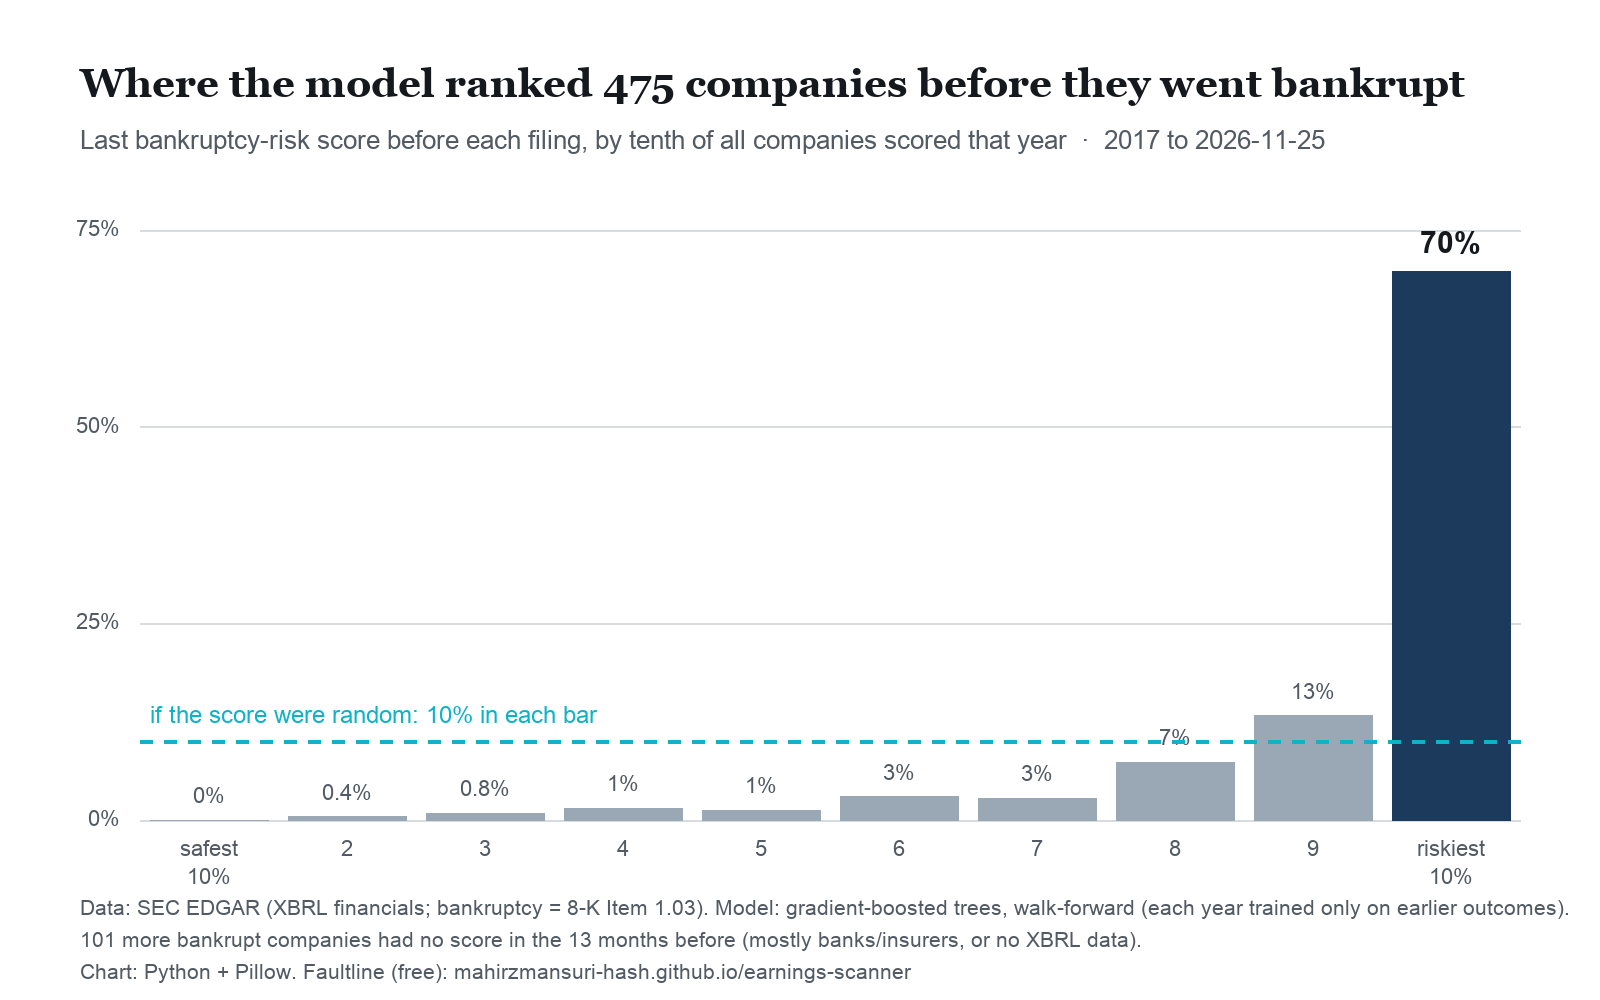
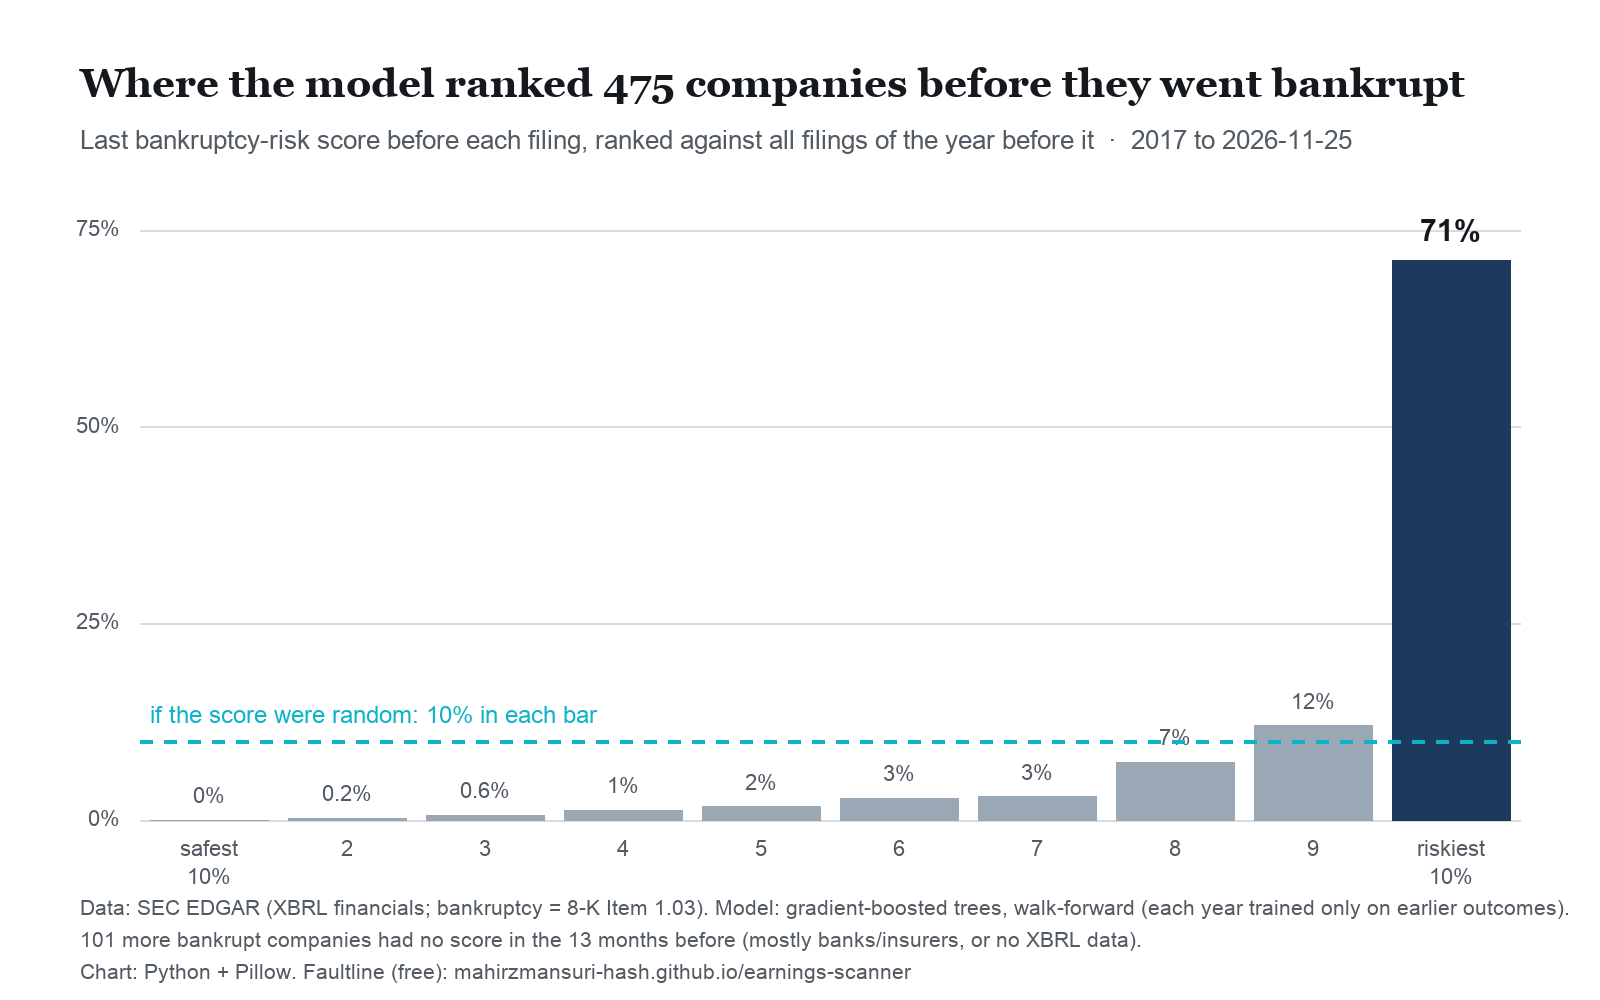
Point-in-time percentiles (trailing 365 days), updated chart and launch kit

diff --git a/src/web/build.py b/src/web/build.py
@@ -44,7 +44,7 @@ def num(x, d=2):
 
 
 def band(p):
-    """Percentile among companies filing that year -> (word, css color)."""
+    """Percentile among filings of the past 365 days -> (word, css color)."""
     if p is None or (isinstance(p, float) and math.isnan(p)):
         return ("Not scored", "--ink-2")
     if p >= 0.95:
@@ -55,7 +55,7 @@ def band(p):
 
 
 def pct_text(p):
-    return "n/a" if p is None or (isinstance(p, float) and math.isnan(p)) else f"riskier than {p*100:.0f}% of filers that year"
+    return "n/a" if p is None or (isinstance(p, float) and math.isnan(p)) else f"riskier than {p*100:.0f}% of filers in the past year"
 
 
 def reading(p):
@@ -158,7 +158,7 @@ def chart(h: pd.DataFrame, evs: pd.DataFrame) -> str:
                      f'<text x="{X(t)+4:.1f}" y="{ly}" style="fill:var({c})">{word}</text>')
     return (f'<div class="tbl"><svg viewBox="0 0 {W} {H}" width="100%" style="min-width:420px" role="img" '
             f'aria-label="Bankruptcy risk percentile by filing date">{"".join(s)}</svg></div>'
-            '<p class="note">Percentile of bankruptcy risk among all companies that filed a 10-K the same year. '
+            '<p class="note">Percentile of bankruptcy risk among all 10-Ks filed in the 365 days up to that filing (never later ones). '
             'Shaded bands: top 5% (high) and top 20% (elevated). Each point is scored by a model that had only seen '
             'outcomes known before that year.</p>')
 
@@ -177,7 +177,7 @@ def q_stat(r) -> str:
     return (f'<div class="stat"><span class="label">Updated with the 10-Q filed {pd.Timestamp(q.available_date).date()}</span>'
             f'<span class="v">{q.q_risk*100:.1f}%</span><span class="read" style="--c:var({c})">{w}</span> '
             f'<span class="dim">· bankruptcy risk, next 2 years · quarter ended {pd.Timestamp(q.period_end).date()} · '
-            f'riskier than {q.q_pctile*100:.0f}% of 10-Q filers that year</span></div>')
+            f'riskier than {q.q_pctile*100:.0f}% of 10-Qs filed in the past year</span></div>')
 AAER = {}
 
 
@@ -490,7 +490,7 @@ def new_filings(latest, as_of):
     jumps = recent.dropna(subset=["jump"]).sort_values("jump", ascending=False).head(15)
     allrows = recent.sort_values(["available_date", "bankruptcy_pctile"], ascending=[False, False])
     body = f"""<section><h1>New filings</h1><p class="dim">Every annual report filed in the 30 days before {as_of}, scored the day the data
-was updated. Risk percentile compares each company with all companies that filed in the same year; change is in percentile points
+was updated. Risk percentile compares each company with all 10-Ks filed in the 365 days up to it; change is in percentile points
 against the company's previous 10-K.</p></section>
 <section><h2>Biggest increases in risk</h2>{'<div class="tbl"><table>' + head + '<tbody>' + "".join(row(r) for r in jumps.itertuples()) + '</tbody></table></div>' if len(jumps) else '<p class="dim">No company with an earlier report filed in this window.</p>'}</section>
 <section><h2>All {len(allrows):,} filings</h2><div class="tbl"><table>{head}<tbody>{"".join(row(r) for r in allrows.itertuples())}</tbody></table></div>
@@ -659,7 +659,7 @@ bankruptcy-risk score before the filing. Misses included. Data as of {pd.Timesta
 using filings public at the time. The site itself launched in November 2026, so older scores are what the method would have
 shown then, not screenshots. Bankruptcy filings come from SEC's 8-K item tags; we read each one and left out
 {len(not_bankruptcy)} tagged filing(s) whose text was not about a bankruptcy. Companies with no score are mostly banks and insurers (not scored) or filers without XBRL financials.
-"Riskiest 10%" is among all filers scored that year. Research, not investment advice.
+"Riskiest 10%" compares each score with all scores filed in the 365 days up to it, never later ones. Research, not investment advice.
 See the <a href="track-record.html">full track record</a> for every year since 2016.</p></section>"""
     (SITE / "receipts.html").write_text(page("Receipts: what Faultline said before each bankruptcy", body,
         f"{top10} of {m} companies that filed for bankruptcy in the last 12 months were already in Faultline's riskiest 10%.", active="receipts.html",

diff --git a/src/model/live.py b/src/model/live.py
@@ -14,6 +14,8 @@ percentages get closer to how often companies really failed. 2016 (no earlier ye
 """
 import duckdb
 import pandas as pd
+
+from src.model.pctile import trailing_pctile
 from sklearn.isotonic import IsotonicRegression
 
 from src.config import DB_PATH
@@ -59,11 +61,11 @@ def main():
             part = part.rename(columns={"calibrated": col, "composite": col + "_raw"})
             out = part if out is None else out.merge(part.drop(columns=["available_date"]), on=["cik", "period_end"], how="outer")
             print(f"  {event}: scored {len(part):,} company-years")
-        out["year"] = pd.to_datetime(out["available_date"]).dt.year
         for col in ["bankruptcy_risk", "restatement_risk"]:
-            # rank by the raw score: calibration groups scores into steps, raw keeps the fine order
-            out[col.replace("_risk", "_pctile")] = out.groupby("year")[col + "_raw"].rank(pct=True)
-        con.register("risk_df", out.drop(columns=["year"]))
+            # rank by the raw score (calibration groups scores into steps, raw keeps the fine order), only against
+            # filings public in the 365 days up to this one: no peeking at filings made later (src/model/pctile.py)
+            out[col.replace("_risk", "_pctile")] = trailing_pctile(out["available_date"], out[col + "_raw"])
+        con.register("risk_df", out)
         con.execute("CREATE OR REPLACE TABLE risk AS SELECT * FROM risk_df")
         con.unregister("risk_df")
         print(f"risk table: {len(out):,} company-years (filed 2016-{as_of.year}), data as of {as_of.date()}")

diff --git a/src/model/pctile.py b/src/model/pctile.py
@@ -1,0 +1,28 @@
+"""Point-in-time percentiles: rank each score only against scores public in the 365 days up to its own filing date.
+
+The old method ranked a filing against every filing in its calendar year, including ones filed later that year
+(a small look-ahead). Here the comparison set is: same kind of score, filed in (date - 365 days, date].
+Ties count half (same convention as pandas rank(pct=True), average method).
+"""
+import numpy as np
+import pandas as pd
+
+
+def trailing_pctile(dates, scores, days: int = 365) -> np.ndarray:
+    d = pd.to_datetime(pd.Series(dates)).dt.normalize().to_numpy()
+    s = np.asarray(scores, dtype=float)
+    out = np.full(len(s), np.nan)
+    ok = ~np.isnan(s) & ~np.isnat(d)           # no date (e.g. restatement-only rows): no percentile, as before
+    idx = np.where(ok)[0]
+    order = idx[np.argsort(d[idx], kind="stable")]
+    dd, ss = d[order], s[order]
+    win = np.timedelta64(days, "D")
+    for day in np.unique(dd):
+        lo, hi = np.searchsorted(dd, day - win, "right"), np.searchsorted(dd, day, "right")
+        ref = np.sort(ss[lo:hi])
+        today = slice(np.searchsorted(dd, day, "left"), hi)
+        x = ss[today]
+        below = np.searchsorted(ref, x, "left")
+        equal = np.searchsorted(ref, x, "right") - below
+        out[order[today]] = (below + (equal + 1) / 2) / len(ref)    # average rank / n, like rank(pct=True)
+    return out

diff --git a/src/model/quarterly_test.py b/src/model/quarterly_test.py
@@ -103,14 +103,15 @@ def lead_times(rows: pd.DataFrame) -> dict:
 
 def live():
     """Site scores: every 10-Q since 2016 scored out of sample, calibrated like the annual model (src/model/live.py).
-    Table risk_q keeps every scored 10-Q, with its percentile among 10-Qs filed that year."""
+    Table risk_q keeps every scored 10-Q, with its percentile among 10-Qs filed in the 365 days up to it."""
     from src.model.live import calibrate
     with duckdb.connect(str(DB_PATH)) as con:
         as_of = pd.Timestamp(con.execute("SELECT MAX(available_date) FROM quarterly").fetchone()[0])
         q = quarterly_features(con, end=str(as_of.date()))
         wf = walk_forward(q, years=range(2016, as_of.year + 1), verbose=False)
         wf["q_risk"] = calibrate(wf)
-        wf["q_pctile"] = wf.groupby("year")["composite"].rank(pct=True)
+        from src.model.pctile import trailing_pctile
+        wf["q_pctile"] = trailing_pctile(wf["available_date"], wf["composite"])   # vs 10-Qs of the previous 365 days
         # every 10-Q since 2016 (alerts compare each one with the company's previous filing); pages use the latest
         out = wf[["cik", "accn", "period_end", "available_date", "q_risk", "composite", "q_pctile"]].rename(columns={"composite": "q_risk_raw"})
         con.register("rq_df", out)

diff --git a/scripts/make_oc_chart.py b/scripts/make_oc_chart.py
@@ -4,7 +4,7 @@ Run:  PYTHONPATH=. .venv/bin/python scripts/make_oc_chart.py
 Writes docs/marketing/oc-bankruptcy-deciles.png (1600x1000) and prints the numbers used, for the post text.
 
 Each bar = companies whose last Faultline score (10-K or 10-Q, within 13 months before the bankruptcy 8-K)
-fell in that tenth of all filers scored that year. With no skill, every bar would be the dashed line (10%).
+fell in that tenth of all filings made in the 365 days up to it. With no skill, every bar would be the dashed line (10%).
 Scores are walk-forward: each year's model was trained only on outcomes known before that year.
 """
 import duckdb
@@ -39,7 +39,7 @@ def main():
     img = Image.new("RGB", (W, H), PAPER)
     d = ImageDraw.Draw(img)
     d.text((80, 60), f"Where the model ranked {len(s)} companies before they went bankrupt", font=font("serif", 40), fill=INK)
-    d.text((80, 125), f"Last bankruptcy-risk score before each filing, by tenth of all companies scored that year  ·  2017 to {as_of}",
+    d.text((80, 125), f"Last bankruptcy-risk score before each filing, ranked against all filings of the year before it  ·  2017 to {as_of}",
            font=font("sans", 26), fill=INK2)
     x0, x1, y0, y1 = 140, W - 80, 230, 820          # plot area
     top = 0.75

diff --git a/tests/test_receipts.py b/tests/test_receipts.py
@@ -17,3 +17,12 @@ def test_receipts_uses_only_earlier_scores_and_skips_bad_tags():
 
 def test_floor_pct():
     assert _floor_pct(0.897) == "89%" and _floor_pct(1.0) == "99%"
+
+
+def test_trailing_pctile_ignores_later_and_old_filings():
+    from src.model.pctile import trailing_pctile
+    d = pd.to_datetime(["2024-01-01", "2025-03-01", "2025-03-02", "2025-12-31"])
+    p = trailing_pctile(d, [9.0, 1.0, 2.0, 0.5])
+    assert p[0] == 1.0                      # alone in its window
+    assert p[1] == 1.0                      # the 2024 filing is >365 days earlier; the later ones don't count yet
+    assert p[2] == 1.0 and p[3] == 1 / 3    # lowest of the three filed in the year to Dec 31

diff --git a/docs/marketing/launch-kit.md b/docs/marketing/launch-kit.md
@@ -10,13 +10,13 @@ After each post, reply to comments for the first 2 hours, then paste the useful 
 | Claim | Number | Source |
 |---|---|---|
 | Recent receipts | 30 of 39 companies that filed for bankruptcy in the last 12 months were already in the riskiest 10% | Receipts page |
-| Full history | 331 of 475 (70%) bankruptcies since 2017 were in the riskiest 10% at their last score; 4% were in the safer half | `oc-bankruptcy-deciles.png` |
+| Full history | 338 of 475 (71%) bankruptcies since 2017 were in the riskiest 10% at their last score; 4% were in the safer half | `oc-bankruptcy-deciles.png` |
 | Warning time | median 327 days from first entering the riskiest 10% to the filing (looks back at most 13 months) | same |
 | Vs. textbook | AUC 0.85 vs Altman Z 0.71, Ohlson 0.72, Zmijewski 0.74 (bankruptcy within 2 years of each 10-K, 2016-2023 test years) | Track record page |
 | Honest failure | fraud prediction only AUC 0.63, so the site shows SEC cases as facts, no fraud score | Track record page |
 
 Two different "riskiest 10%" numbers exist, so don't mix them up: **53%** = of all bankruptcies within 2 years of a 10-K, how many
-that 10-K's score put in the riskiest 10% (the formal test). **70%** = the *last* score before each bankruptcy (closer to the event, so higher).
+that 10-K's score put in the riskiest 10% (the formal test). **71%** = the *last* score before each bankruptcy (closer to the event, so higher).
 
 ---
 
@@ -57,7 +57,7 @@ that 10-K's score put in the riskiest 10% (the formal test). **70%** = the *last
 > **Results (test years 2016-2023, ~25,000 company-years, 539 bankruptcies within 2 years of a 10-K):**
 > - Ranking accuracy (AUC): 0.85, vs 0.71 for Altman Z, 0.72 Ohlson O, 0.74 Zmijewski on the same rows.
 > - The riskiest 10% of filers contained 53% of later bankruptcies (Altman Z's riskiest 10%: 13%).
-> - At the last score before the filing, 331 of 475 bankruptcies since 2017 (70%) were in the riskiest 10%.
+> - At the last score before the filing, 338 of 475 bankruptcies since 2017 (71%) were in the riskiest 10%.
 > - Fresh 10-Q numbers (trailing twelve months) help, most when the last 10-K is old: AUC 0.85 → 0.88 when the 10-K is 8+ months old.
 >
 > **What didn't work:**
@@ -89,7 +89,7 @@ It usually gets a kinder reception, but it's your call.
 > **Tool:** Python (pandas, DuckDB, scikit-learn), chart drawn with Pillow.
 >
 > Each bar is the share of bankrupt companies whose last risk score (within 13 months before the filing) fell in that tenth of
-> all companies scored that year. If the score were random, every bar would be 10%. The model is walk-forward: each year's model
+> all filings made in the 365 days up to it (never later ones). If the score were random, every bar would be 10%. The model is walk-forward: each year's model
 > only learned from bankruptcies known before that year. 101 more bankrupt companies had no score in the 13 months before (mostly
 > banks and insurers, which aren't scored, or companies without XBRL data).
 >
@@ -126,9 +126,10 @@ It usually gets a kinder reception, but it's your call.
 ## Reply bank (honest answers to the likely criticism)
 
 - **"Isn't this look-ahead bias?"** Every number is the first-filed value, dated by the filing date, and each year's model is
-  trained only on outcomes known before that year. One small leak to admit: a score's percentile is ranked among all filings
-  in its calendar year, including ones filed later that year.
-- **"70% sounds too good."** It's the *last* score before the filing, often a few weeks before, when trouble is visible.
+  trained only on outcomes known before that year. Percentiles compare each score only with scores filed in the 365 days before it.
+  (An earlier version ranked within the calendar year, which peeked at later filings; fixing it moved scores ~2 points on average
+  and changed the headline from 70% to 71%.)
+- **"71% sounds too good."** It's the *last* score before the filing, often a few weeks before, when trouble is visible.
   The stricter test (bankruptcy within 2 years of each 10-K) is 53% in the riskiest 10%. Most companies in the riskiest 10%
   do *not* go bankrupt: it's a ranking, not a prediction for any one company.
 - **"Can I trade on this?"** It's research, not investment advice. The stock-outcome test is on the Track record page;

diff --git a/vault/build-log.md b/vault/build-log.md
@@ -156,3 +156,9 @@ One entry per session, newest at the bottom. Each entry must be enough to resume
 - **Did:** Mahir finds in-person pitching hard, so Phase 2 is online-first: written feedback request to a teacher, then r/SecurityAnalysis, r/dataisbeautiful [OC] chart, Show HN. `docs/marketing/launch-kit.md` (all drafts + numbers table + reply bank), `scripts/make_oc_chart.py` -> `docs/marketing/oc-bankruptcy-deciles.png`.
 - **Numbers:** 576 bankrupt companies since 2017; 475 had a score in the 13 months before; 331 (70%) in the riskiest 10%, 4% in the safer half; median 327 days from first entering the riskiest 10%.
 - **Next:** Mahir sends the teacher message (week 1).
+
+## 2026-11-28: Point-in-time percentiles (look-ahead fix)
+- **Bug:** every "riskier than X%" ranked a filing against all filings of its calendar year, including ones filed later that year: a small look-ahead that HN/Reddit readers would catch.
+- **Fix:** `src/model/pctile.py` `trailing_pctile`: rank only against scores filed in the 365 days up to each filing (ties count half). Used in `live.py` (10-K) and `quarterly_test.live` (10-Q); stored tables recomputed from raw scores (no retraining needed). Undated rows get no percentile, as before. Site wording now says "in the past year". Test added (39 pass).
+- **Size of the leak:** mean change 2 percentile points (10-K), 1.5 (10-Q); 99% of filings stay on the same side of the riskiest-10% line. Since-2017 receipts: 331 -> 338 of 475 (70% -> 71%); last 12 months unchanged (30/39). Model AUCs unaffected (they use raw scores).
+- **Next:** week 1 of the launch (Mahir asks a finance mentor for written feedback), then the r/SecurityAnalysis post.

diff --git a/vault/gotchas.md b/vault/gotchas.md
@@ -40,3 +40,8 @@ Traps that cost time once. Format: **symptom** → cause → fix.
 - **Symptom:** Granite Construction (healthy) appeared as a bankruptcy on Receipts.
 - **Cause:** our events come from the item tags in SEC's filing index; the filer tagged Item 1.03 on an 8-K about a note exchange. SEC's full-submission .txt header repeats the tag, so text checks must skip it.
 - **Fix:** `src/pipeline/verify_bk.py` reads recent bankruptcy 8-Ks (main document first) and drops ones that never mention bankruptcy. Older training labels are not checked yet (rare; would need ~1,000 fetches).
+
+## Percentiles ranked within a calendar year peek ahead
+- **Symptom:** none visible; found while writing answers to likely criticism.
+- **Cause:** `groupby("year").rank(pct=True)` compares a January filing with filings made later that year.
+- **Fix:** `trailing_pctile` (365 days up to the filing). Effect was small (~2 points), but claims of "only data public at the time" must be literally true.

diff --git a/vault/marketing-plan.md b/vault/marketing-plan.md
@@ -42,7 +42,7 @@ Drafts for every step: `docs/marketing/launch-kit.md`. Chart: `docs/marketing/oc
 |---|---|---|---|
 | 1 | Finance/business teacher or club leader (written message) | ask for 10 minutes of honest feedback | expert eyes before strangers; no pitching |
 | 2 | r/SecurityAnalysis | method + results + what failed, ask for criticism | analysts like method + honesty |
-| 3 | r/dataisbeautiful ([OC]) | decile chart: 70% of 475 bankruptcies were in the riskiest 10% | big audience, chart-only |
+| 3 | r/dataisbeautiful ([OC]) | decile chart: 71% of 475 bankruptcies were in the riskiest 10% | big audience, chart-only |
 | 4 | Hacker News "Show HN" | the site, first comment explains how it's built | qualifies: usable with no signup |
 | 5+ | r/ValueInvesting, r/accounting | one case study each | ongoing |
 

diff --git a/vault/summary.md b/vault/summary.md
@@ -226,3 +226,9 @@
 - Week 1: send a short written message to a teacher asking for feedback.
 - Then Reddit, a chart post, and Hacker News. All drafts are written.
 - New chart: 70% of 475 bankruptcies were in our riskiest 10% before they happened.
+
+## Fixed a small peek into the future (Nov 28)
+- "Riskier than X%" used to compare with the whole year, even later filings.
+- Now it only compares with filings from the year before it.
+- The effect was small. Headline went from 70% to 71%.
+- Now we can honestly say: only data public at the time.
